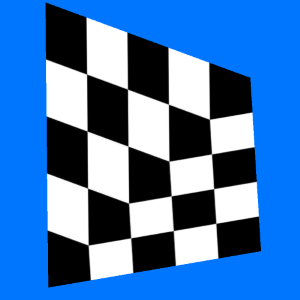
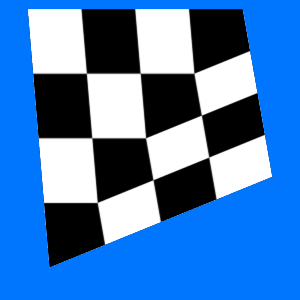
Added clip mapping

diff --git a/Assets/SkewQuad/SkewQuad.cs b/Assets/SkewQuad/SkewQuad.cs
@@ -2,8 +2,15 @@
 using System.Collections.Generic;
 using UnityEngine;
 
+public enum Mapping {
+	SKEW,
+	AFFINE,
+	CLIP
+}
+
+[ExecuteInEditMode]
 public class SkewQuad : MonoBehaviour {
-	public bool enableSkew = true;
+	public Mapping mapping = Mapping.SKEW;
 	public Vector3 TopLeft;
 	public Vector3 TopRight;
 	public Vector3 BottomLeft;
@@ -51,60 +58,78 @@ public class SkewQuad : MonoBehaviour {
 			new Vector2(0,1),
 		};
 
-		// I used uv2 (qu, qv) and uv3 (q), there is potential for this to be an issue on different devices. 
 
-		float ax = vertices[2].x - vertices[0].x;
-		float ay = vertices[2].y - vertices[0].y;
-		float bx = vertices[3].x - vertices[1].x;
-		float by = vertices[3].y - vertices[1].y;
-
-		float cross = (ax * by) - (ay * bx);
-		
-		Vector2[] uv2 = uv;
-
-		Vector2[] uv3 = new Vector2[4] {
+		Vector2[] uv2 = new Vector2[4] {
 			new Vector2(1,0),
 			new Vector2(1,0),
 			new Vector2(1,0),
 			new Vector2(1,0),
 		};
 
-		// Only skew if it's possible (ie. clockwise tri vertices and convex shape)
-		if (cross != 0 && enableSkew) {
-			float cy = vertices[0].y - vertices[1].y;
-			float cx = vertices[0].x - vertices[1].x;
+		switch(mapping) {
+			case Mapping.SKEW:
+				// I used uv (qu, qv) and uv2 (q), there is potential for this to be an issue on different devices. 
 
-			float s = (ax * cy - ay * cx) / cross;
-	
-			if (s > 0 && s < 1) {
-				float t = (bx * cy - by * cx) / cross;
+				float ax = vertices[2].x - vertices[0].x;
+				float ay = vertices[2].y - vertices[0].y;
+				float bx = vertices[3].x - vertices[1].x;
+				float by = vertices[3].y - vertices[1].y;
 
-				if (t > 0 && t < 1) {
-					float q0 = 1 / (1-t);
-					float q1 = 1 / (1-s);
-					float q2 = 1 / t;
-					float q3 = 1 / s;
-					uv2[0] = new Vector2(uv[0].x * q0, uv[0].y * q0);
-					uv2[1] = new Vector2(uv[1].x * q1, uv[1].y * q1);
-					uv2[2] = new Vector2(uv[2].x * q2, uv[2].y * q2);
-					uv2[3] = new Vector2(uv[3].x * q3, uv[3].y * q3);
-					uv3[0] = new Vector2(q0, 0);
-					uv3[1] = new Vector2(q1, 0);
-					uv3[2] = new Vector2(q2, 0);
-					uv3[3] = new Vector2(q3, 0);
-					updated = true;
+				float cross = (ax * by) - (ay * bx);
+
+				// Only skew if it's possible (ie. clockwise tri vertices and convex shape)
+				if (cross != 0 && mapping == Mapping.SKEW) {
+					float cy = vertices[0].y - vertices[1].y;
+					float cx = vertices[0].x - vertices[1].x;
+
+					float s = (ax * cy - ay * cx) / cross;
+			
+					if (s > 0 && s < 1) {
+						float t = (bx * cy - by * cx) / cross;
+
+						if (t > 0 && t < 1) {
+							float q0 = 1 / (1-t);
+							float q1 = 1 / (1-s);
+							float q2 = 1 / t;
+							float q3 = 1 / s;
+							uv[0] = new Vector2(uv[0].x * q0, uv[0].y * q0);
+							uv[1] = new Vector2(uv[1].x * q1, uv[1].y * q1);
+							uv[2] = new Vector2(uv[2].x * q2, uv[2].y * q2);
+							uv[3] = new Vector2(uv[3].x * q3, uv[3].y * q3);
+							uv2[0] = new Vector2(q0, 0);
+							uv2[1] = new Vector2(q1, 0);
+							uv2[2] = new Vector2(q2, 0);
+							uv2[3] = new Vector2(q3, 0);
+							updated = true;
+						}
+					}
 				}
-			}
+
+				if (!updated) {
+					throw new System.Exception("SKEW: Shape must be convex and triangle vertices must be clockwise.");
+				}
+			break;
+			case Mapping.CLIP:
+				uv[0] = vertices[0];
+				uv[1] = vertices[1];
+				uv[2] = vertices[2];
+				uv[3] = vertices[3];
+		
+				uv2 = new Vector2[4] {
+					new Vector2(1,0),
+					new Vector2(1,0),
+					new Vector2(1,0),
+					new Vector2(1,0),
+				};
+
+			break;
+			case Mapping.AFFINE:
+			break;
 		}
 
 		mesh.uv = uv;
 		mesh.uv2 = uv2;
-		mesh.uv3 = uv3;
-		if (updated || !enableSkew) {
-			mf.mesh = mesh;
-		} else {
-			throw new System.Exception("Shape must be convex and triangle vertices must be clockwise.");
-		}
-		
+		mf.mesh = mesh;
+
 	}
 }

diff --git a/Assets/SkewQuad/Demo/SkewDemo.cs b/Assets/SkewQuad/Demo/SkewDemo.cs
@@ -1,7 +1,7 @@
 using System.Collections;
 using System.Collections.Generic;
 using UnityEngine;
-
+[ExecuteInEditMode]
 public class SkewDemo : MonoBehaviour {
 	public SkewQuad quad;
 	// Use this for initialization

diff --git a/README.md b/README.md
@@ -16,6 +16,10 @@ Affine Texture Mapping
 
 <img src="Images/affine.png" width="200">
 
-Corrected Texture Mapping
+Skewed Texture Mapping
 
-<img src="Images/correct.png" width="200">
+<img src="Images/skew.png" width="200">
+
+Clipped Texture Mapping
+
+<img src="Images/clip.png" width="200">
